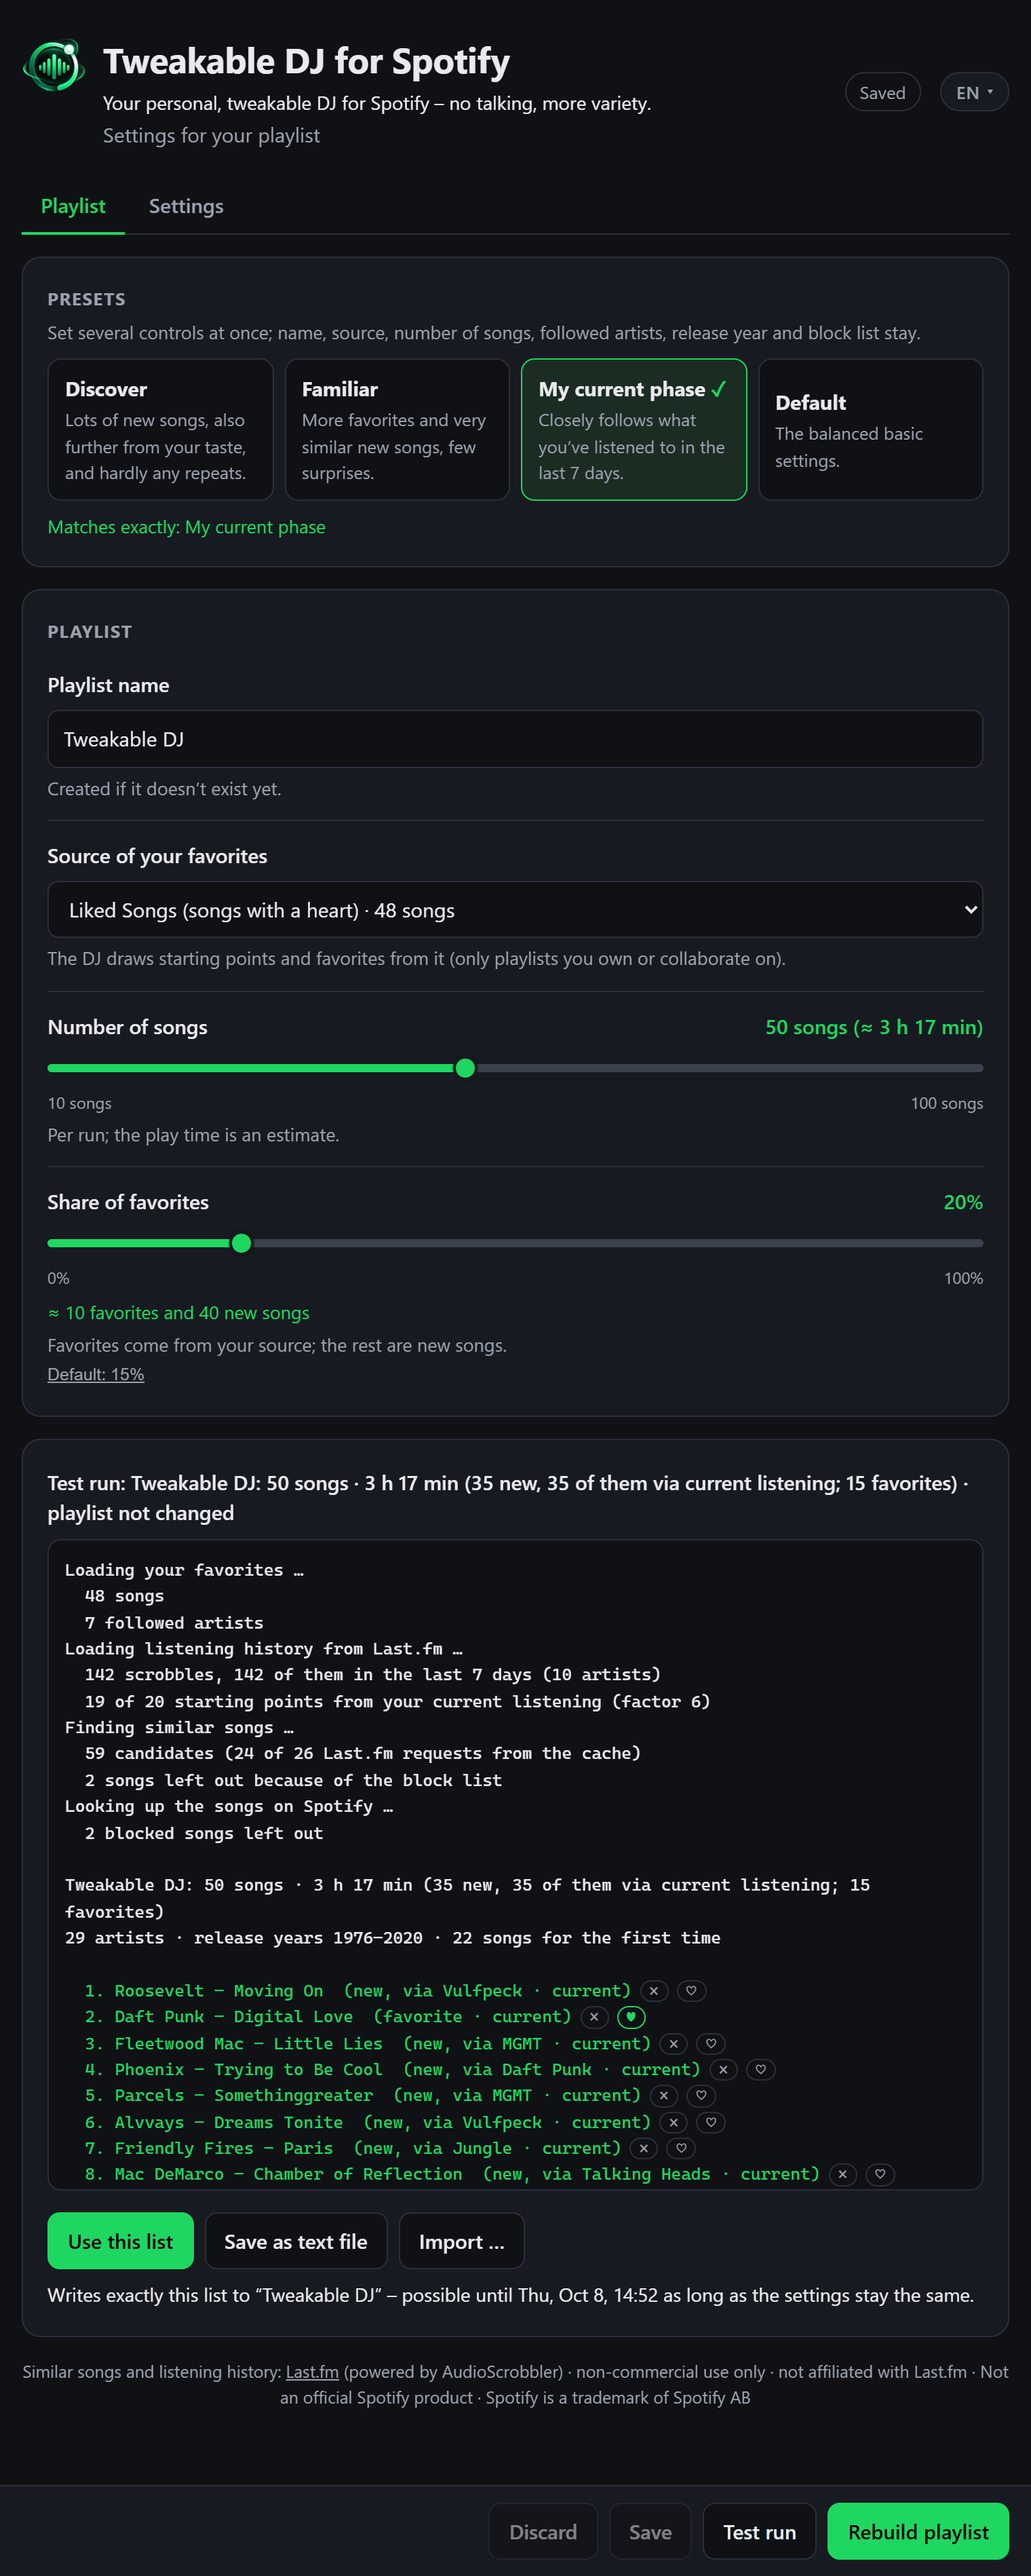
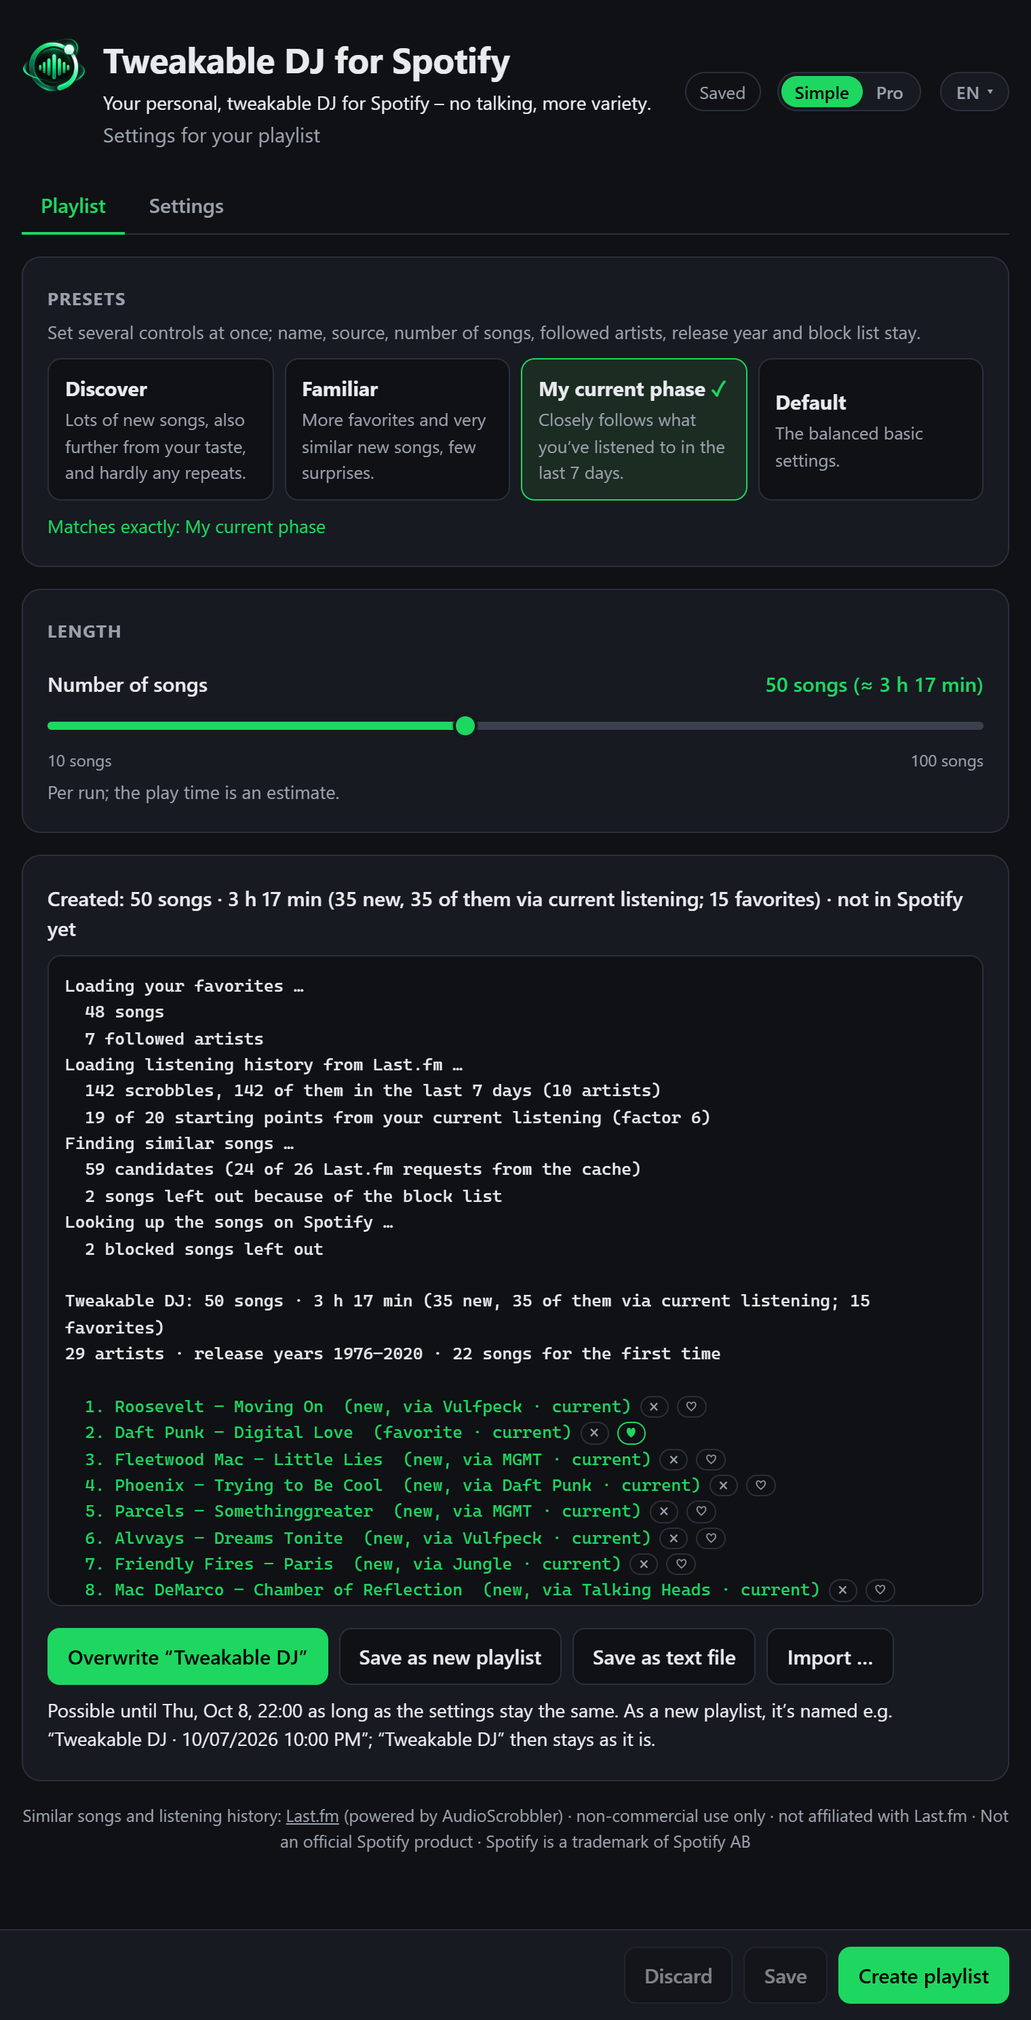
Screenshots of v0.3.0: tab Playlist in the Simple view after Create playlist, tab Settings with the Playlist section

diff --git a/README.de.md b/README.de.md
@@ -13,7 +13,7 @@ Die Oberfläche gibt es auf Deutsch und Englisch, außerdem auf Spanisch und Fra
 <p align="center">
   <picture>
     <source media="(prefers-color-scheme: dark)" srcset="docs/screenshot-playlist.dark.png">
-    <img src="docs/screenshot-playlist.light.png" width="440" alt="Der Tab Playlist nach einem Probelauf: die Voreinstellungen mit My current phase (Meine aktuelle Phase) ausgewählt, die Gruppe Playlist mit Number of songs (Anzahl Songs) auf 50 Songs (≈ 3 h 17 min) und Share of favorites (Anteil Favoriten) auf 20 %, die Ausgabe mit der Zusammenfassung (50 Songs · 3 h 17 min, 35 neu, 15 Favoriten), den Schritten des Laufs und dem Anfang der Songliste mit einem × hinter jedem Song, die Buttons Use this list (Diese Liste übernehmen), Save as text file (Als Textdatei speichern) und Import … (Importieren …) und ganz unten Discard, Save, Test run und Rebuild playlist (Verwerfen, Speichern, Probelauf, Playlist neu erstellen). Die übrigen Gruppen mit Reglern sind im Bild ausgelassen. Englische Oberfläche.">
+    <img src="docs/screenshot-playlist.light.png" width="440" alt="Der Tab Playlist in der Ansicht Simple (Einfach) nach Create playlist (Playlist erstellen): oben der Umschalter Simple / Pro mit Simple ausgewählt, die Voreinstellungen mit My current phase (Meine aktuelle Phase) ausgewählt, die Gruppe Length (Länge) mit Number of songs (Anzahl Songs) auf 50 Songs (≈ 3 h 17 min), die Ausgabe mit der Zusammenfassung (Created: 50 Songs · 3 h 17 min, 35 neu, 15 Favoriten · noch nicht in Spotify), den Schritten des Laufs und dem Anfang der Songliste mit × und ♥ hinter jedem Song, die Buttons Overwrite “Tweakable DJ” („Tweakable DJ“ überschreiben), Save as new playlist (Neu in Spotify anlegen), Save as text file (Als Textdatei speichern) und Import … (Importieren …), der Hinweis, wie lange die Liste gilt und wie eine neue Playlist heißen würde, und ganz unten Discard, Save und Create playlist (Verwerfen, Speichern, Playlist erstellen). Englische Oberfläche.">
   </picture>
 </p>
 <p align="center"><sub>Die Bilder in dieser Anleitung zeigen die englische Oberfläche; sie ist auch auf Deutsch verfügbar (Sprache oben rechts).</sub></p>
@@ -342,7 +342,7 @@ Die Seite hat zwei Tabs: **Playlist** (Voreinstellungen, Regler – in *Einfach*
 <p align="center">
   <picture>
     <source media="(prefers-color-scheme: dark)" srcset="docs/screenshot-settings.dark.png">
-    <img src="docs/screenshot-settings.light.png" width="440" alt="Der Tab Settings (Einstellungen): Rebuild automatically (Automatisch neu erstellen) täglich um 07:00 mit dem nächsten Lauf und dem letzten automatischen Lauf (✓ 50 Songs · 3 h 17 min), die Sperrliste mit No explicit songs (Keine Songs mit expliziten Texten), den Künstlern Imagine Dragons und The Killers und den Songs Tame Impala – The Less I Know the Better und Glass Animals – Heat Waves, das Archiv mit Archived playlists (Archivierte Playlists) auf 20, Appearance (Aussehen) mit Modus und 8 Akzentfarben, Credentials (Zugangsdaten: bei Spotify angemeldet, Last.fm: demo), Shortcut (Verknüpfung: auf dem Desktop vorhanden) und Version v0.2.1 · You’re up to date ✓ (Du hast die neueste Version). Englische Oberfläche.">
+    <img src="docs/screenshot-settings.light.png" width="440" alt="Der Tab Settings (Einstellungen): der Abschnitt Playlist mit Playlist name (Name der Playlist: Tweakable DJ) und Source of your favorites (Quelle deiner Favoriten: Lieblingssongs), Rebuild automatically (Automatisch neu erstellen) täglich um 07:00 mit dem nächsten Lauf und dem letzten automatischen Lauf (✓ 50 Songs · 3 h 17 min), die Sperrliste mit No explicit songs (Keine Songs mit expliziten Texten), den Künstlern Imagine Dragons und The Killers und den Songs Tame Impala – The Less I Know the Better und Glass Animals – Heat Waves, das Archiv mit Archived playlists (Archivierte Playlists) auf 20, Appearance (Aussehen) mit Modus und 8 Akzentfarben, Credentials (Zugangsdaten: bei Spotify angemeldet, Last.fm: demo) mit der Erinnerung an die Anmeldung, Shortcut (Verknüpfung: auf dem Desktop vorhanden) mit der zweiten Verknüpfung und Program (Programm) mit v0.3.0 · You’re up to date ✓ (Du hast die neueste Version) und Quit Tweakable DJ (Tweakable DJ beenden). Englische Oberfläche.">
   </picture>
 </p>
 

diff --git a/README.md b/README.md
@@ -13,7 +13,7 @@ The interface is available in English and German, and also in Spanish and French
 <p align="center">
   <picture>
     <source media="(prefers-color-scheme: dark)" srcset="docs/screenshot-playlist.dark.png">
-    <img src="docs/screenshot-playlist.light.png" width="440" alt="The tab Playlist after a test run: the presets with My current phase selected, the group Playlist with Number of songs at 50 songs (≈ 3 h 17 min) and Share of favorites at 20%, the output with the summary (50 songs · 3 h 17 min, 35 new, 15 favorites), the steps of the run and the start of the song list with a × after each song, the buttons Use this list, Save as text file and Import …, and at the bottom Discard, Save, Test run and Rebuild playlist. The other groups of controls are left out of the picture.">
+    <img src="docs/screenshot-playlist.light.png" width="440" alt="The tab Playlist in the view Simple after Create playlist: at the top the switch Simple / Pro with Simple selected, the presets with My current phase selected, the group Length with Number of songs at 50 songs (≈ 3 h 17 min), the output with the summary (Created: 50 songs · 3 h 17 min, 35 new, 15 favorites · not in Spotify yet), the steps of the run and the start of the song list with × and ♥ after each song, the buttons Overwrite “Tweakable DJ”, Save as new playlist, Save as text file and Import …, the note how long the list can be used and what a new playlist would be called, and at the bottom Discard, Save and Create playlist.">
   </picture>
 </p>
 
@@ -341,7 +341,7 @@ The page has two tabs: **Playlist** (presets, controls – in *Simple* only *Num
 <p align="center">
   <picture>
     <source media="(prefers-color-scheme: dark)" srcset="docs/screenshot-settings.dark.png">
-    <img src="docs/screenshot-settings.light.png" width="440" alt="The tab Settings: Rebuild automatically set to Daily at 07:00 with the next run and the last automatic run (✓ 50 songs · 3 h 17 min), the block list with No explicit songs, the artists Imagine Dragons and The Killers and the songs Tame Impala – The Less I Know the Better and Glass Animals – Heat Waves, the archive with Archived playlists at 20, Appearance with the mode and 8 accent colors, Credentials (Spotify: logged in, Last.fm: demo), Shortcut (On the desktop ✓) and Version v0.2.1 · You’re up to date ✓">
+    <img src="docs/screenshot-settings.light.png" width="440" alt="The tab Settings: the section Playlist with Playlist name (Tweakable DJ) and Source of your favorites (Liked Songs), Rebuild automatically set to Daily at 07:00 with the next run and the last automatic run (✓ 50 songs · 3 h 17 min), the block list with No explicit songs, the artists Imagine Dragons and The Killers and the songs Tame Impala – The Less I Know the Better and Glass Animals – Heat Waves, the archive with Archived playlists at 20, Appearance with the mode and 8 accent colors, Credentials (Spotify: logged in, Last.fm: demo) with Remind me to log in again, Shortcut (On the desktop ✓) with the second shortcut, and Program with v0.3.0 · You’re up to date ✓ and Quit Tweakable DJ.">
   </picture>
 </p>
 
